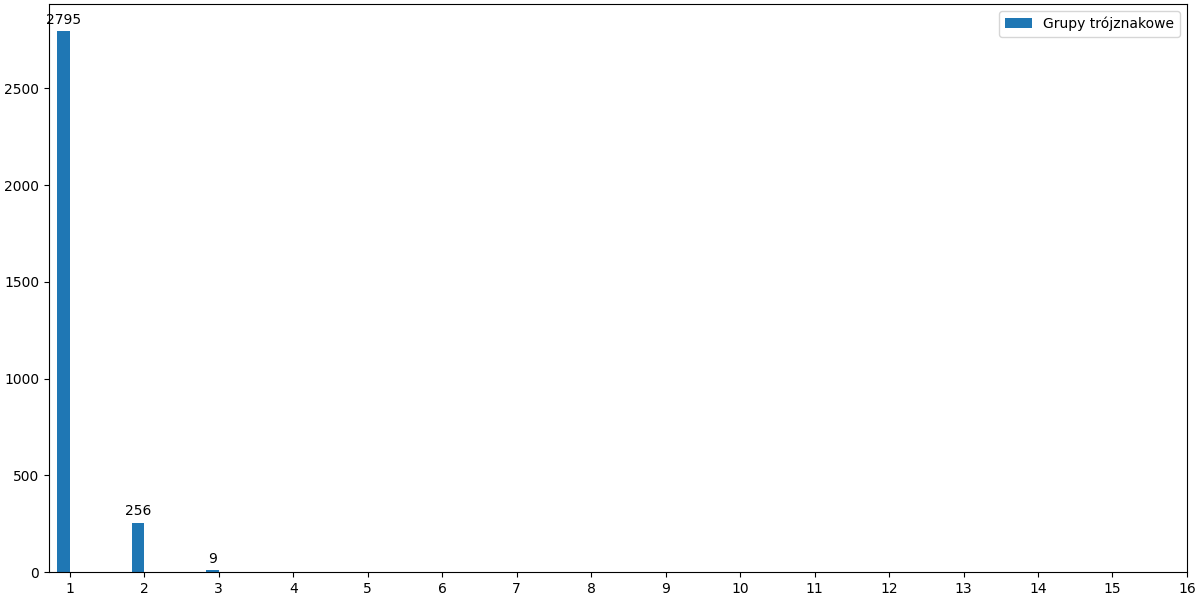
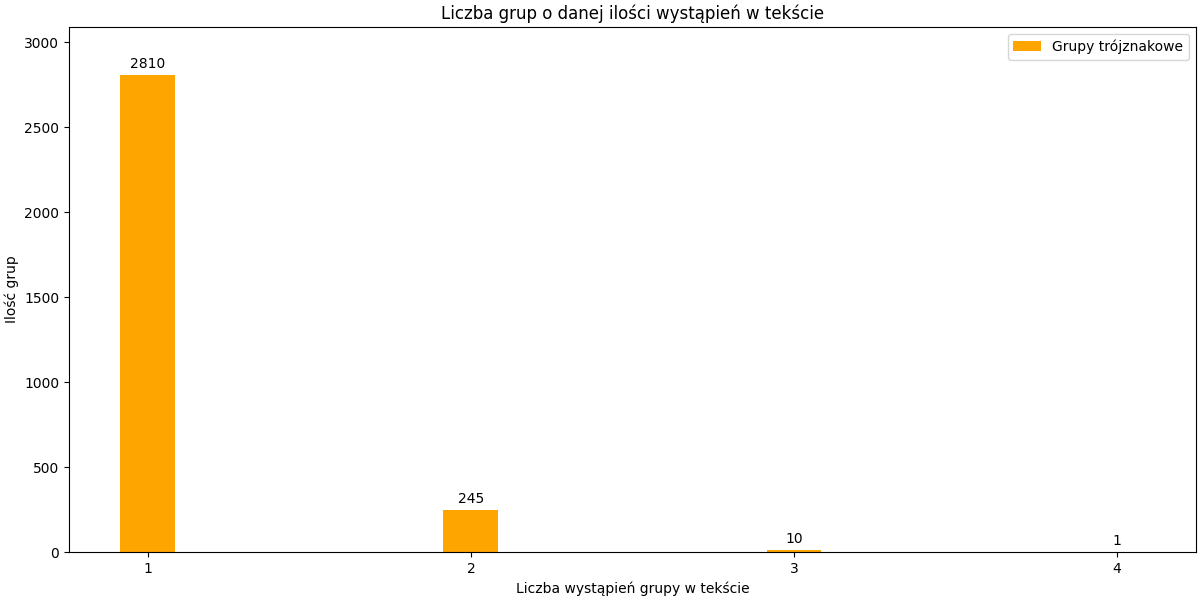
Distribution & graph fixes

diff --git a/booyer_moore/final/main.py b/booyer_moore/final/main.py
@@ -7,12 +7,12 @@ from booyer_moore.text_grouping import group
 import numpy as np
 
 LENGTH = 10000
-DISTRIBUTION = NormalDistribution(mean=1.0, std_dev=0.0)
+DISTRIBUTION = NormalDistribution(mean=0.0, std_dev=1.0)
 CURRENT_DIR = os.path.dirname(os.path.realpath(__file__))
 TEXT_FILE_PATH = os.path.join(CURRENT_DIR, 'text.txt')
 GROUP_OVERLAPPING = False
-GROUP_LIST = {2: 'dwuznakowe', 3: 'trójznakowe', 4: 'czworoznakowe', 5: 'pięcioznakowe'}
-SINGLE_PLOT = True
+GROUP_LIST = {2: ('dwuznakowe', 'cornflowerblue'), 3: ('trójznakowe', 'orange'), 4: ('czworoznakowe', 'green'), 5: ('pięcioznakowe', 'red')}
+SINGLE_PLOT = False
 IGNORE_TEXTFILE = False
 
 if __name__ == "__main__":
@@ -27,64 +27,72 @@ if __name__ == "__main__":
             with open(TEXT_FILE_PATH, 'r') as file:
                 text = file.read()
 
-    groups = {}
-    max_count = 0
-    min_count = 1000000
-    for group_size in GROUP_LIST.keys():
-        g = {}
 
-        h: np.ndarray = np.fromiter(bytes(text, 'ascii'), dtype=int)
+    c = Counter(text)
+    plt.bar(*zip(*sorted(c.items(), key=lambda d: d[1])), width=.5, color='g') # Sorted
+    plt.savefig(os.path.join(CURRENT_DIR, 'letters.png'))
+    plt.clf()
 
-        group_counts = Counter(group(text, group_size, overlapping=GROUP_OVERLAPPING))
-        group_labels, group_values = zip(*sorted(group_counts.items(), key=lambda d: d[1]))
-        groups_grouped = Counter(group_values)
-        group_labels, group_values = zip(*sorted(groups_grouped.items(), key=lambda d: d[1]))
-        for i in range(0, len(group_labels)):
-            label = group_labels[i]
-            value = group_values[i]
-            g[label] = value
+    def plot_groups(groups, fname):
+        groups_data = {}
+        max_count = 0
+        min_count = 1000000
+        for group_size in groups.keys():
+            g = {}
 
-        curr_max_count = max(group_labels)
-        curr_min_count = min(group_labels)
-        if max_count < curr_max_count:
-            max_count = curr_max_count
+            group_counts = Counter(group(text, group_size, overlapping=GROUP_OVERLAPPING))
+            group_labels, group_values = zip(*sorted(group_counts.items(), key=lambda d: d[1]))
+            groups_grouped = Counter(group_values)
+            group_labels, group_values = zip(*sorted(groups_grouped.items(), key=lambda d: d[1]))
+            for i in range(0, len(group_labels)):
+                label = group_labels[i]
+                value = group_values[i]
+                g[label] = value
 
-        if min_count > curr_min_count:
-            min_count = curr_min_count
+            curr_max_count = max(group_labels)
+            curr_min_count = min(group_labels)
+            if max_count < curr_max_count:
+                max_count = curr_max_count
 
-        groups[group_size] = g
+            if min_count > curr_min_count:
+                min_count = curr_min_count
 
-    width = 0.17
-    multiplier = 0
-    counts = np.arange(min_count, max_count)
+            groups_data[group_size] = g
 
-    fig, ax = plt.subplots(layout='constrained')
-    fig.set_size_inches(12,6)
-    ax.set_ymargin(0.1)
-    ax.set_ylabel('Ilość grup')
-    ax.set_xlabel('Liczba wystąpień grupy w tekście')
-    ax.set_title('Liczba grup o danej ilości wystąpień w tekście')
+        width = 0.17
+        multiplier = 0
+        counts = np.arange(min_count, max_count+1)
 
-    for group_size, group_values in groups.items():
-        group_name = f'Grupy {GROUP_LIST[group_size]}'
-        offset = width * multiplier
-        values = []
-        for i in counts:
-            values.append(group_values.get(i, np.NaN))
-        rects = ax.bar(counts + offset, values, width, label=group_name, align='center')
-        ax.bar_label(rects, padding=3)#, rotation='vertical')
-        multiplier += 1
-        ax.legend(loc='upper right', ncols=1)
-        ax.set_xticks(counts + (width*(len(GROUP_LIST)/2-0.5)), counts)
+        fig, ax = plt.subplots(layout='constrained')
+        fig.set_size_inches(12,6)
+        ax.set_ymargin(0.1)
+        ax.set_ylabel('Ilość grup')
+        ax.set_xlabel('Liczba wystąpień grupy w tekście')
+        ax.set_title('Liczba grup o danej ilości wystąpień w tekście')
 
-        if SINGLE_PLOT:
-            fig.savefig(os.path.join(CURRENT_DIR, f'group_{group_size}_chart.png'))
-            ax.clear()
+        for group_size, group_values in groups_data.items():
+            group_prefix, group_color = groups[group_size]
+            group_name = f'Grupy {group_prefix}'
+            offset = width * multiplier
+            values = []
+            for i in counts:
+                values.append(group_values.get(i, np.NaN))
+            rects = ax.bar(counts + offset, values, width, label=group_name, align='center', color=group_color)
+            ax.bar_label(rects, padding=3)#, rotation='vertical')
+            multiplier += 1
+            ax.legend(loc='upper right', ncols=1)
+            ax.set_xticks(counts + (width*(len(groups)/2-0.5)), counts)
 
-    # ax.set_ylim(0, 250)
-    if not SINGLE_PLOT:
-        fig.savefig(os.path.join(CURRENT_DIR, f'group_chart.png'))
+            # if SINGLE_PLOT:
+            #     fig.savefig(os.path.join(CURRENT_DIR, f'group_{group_size}_chart.png'))
+            #     ax.clear()
 
+        # ax.set_ylim(0, 250)
+        fig.savefig(os.path.join(CURRENT_DIR, fname))
+
+    # plot_groups(GROUP_LIST, 'group_chart.png')
+    for k,v in GROUP_LIST.items():
+        plot_groups({k: v}, f'group_{k}_chart.png')
 
 
     # plt.figure(figsize=(12,6))

diff --git a/booyer_moore/text_generator.py b/booyer_moore/text_generator.py
@@ -34,9 +34,10 @@ DISTRIBUTIONS = {
 }
 
 # Fn to make sure we output the amount of characters we need
-def offset_and_scale(arr, target_sum):
+def offset_and_scale(arr: np.ndarray, target_sum):
     # offset to make all numbers positive
-    arr = arr - np.min(arr) + 1
+    offset = abs(np.min(arr)) + 1
+    arr = arr + offset
 
     # scale the array to the target sum
     arr = arr / np.sum(arr) * target_sum
@@ -58,7 +59,8 @@ def generate_text(distribution: Distribution, length: int, character_set: str = 
         np.random.seed(seed)
 
     sample = []
-    character_count = offset_and_scale(distribution.random(len(character_set)), length)
+    weights = distribution.random(len(character_set))
+    character_count = offset_and_scale(weights, length)
 
     for idx, cnt in enumerate(character_count):
         sample.extend(character_set[idx] * int(cnt))
@@ -87,8 +89,8 @@ def calculate_amount_of_characters_per_worker(num_workers: int, num_char: int) -
 if __name__ == "__main__":
     LENGTH = int(get_arg("--length"))
 
-    MEAN = float(get_arg("--mean", 1))
-    STD_DEV = float(get_arg("--std-dev", 0))
+    MEAN = float(get_arg("--mean", 0))
+    STD_DEV = float(get_arg("--std-dev", 1))
     CHARACTER_SET = get_arg("--character-set", string.ascii_lowercase + ' ')
     WORKERS = int(get_arg("--workers", 1)) or 1
     DISTRIBUTION = DISTRIBUTIONS[get_arg("--distribution", 'normal')](MEAN, STD_DEV)
